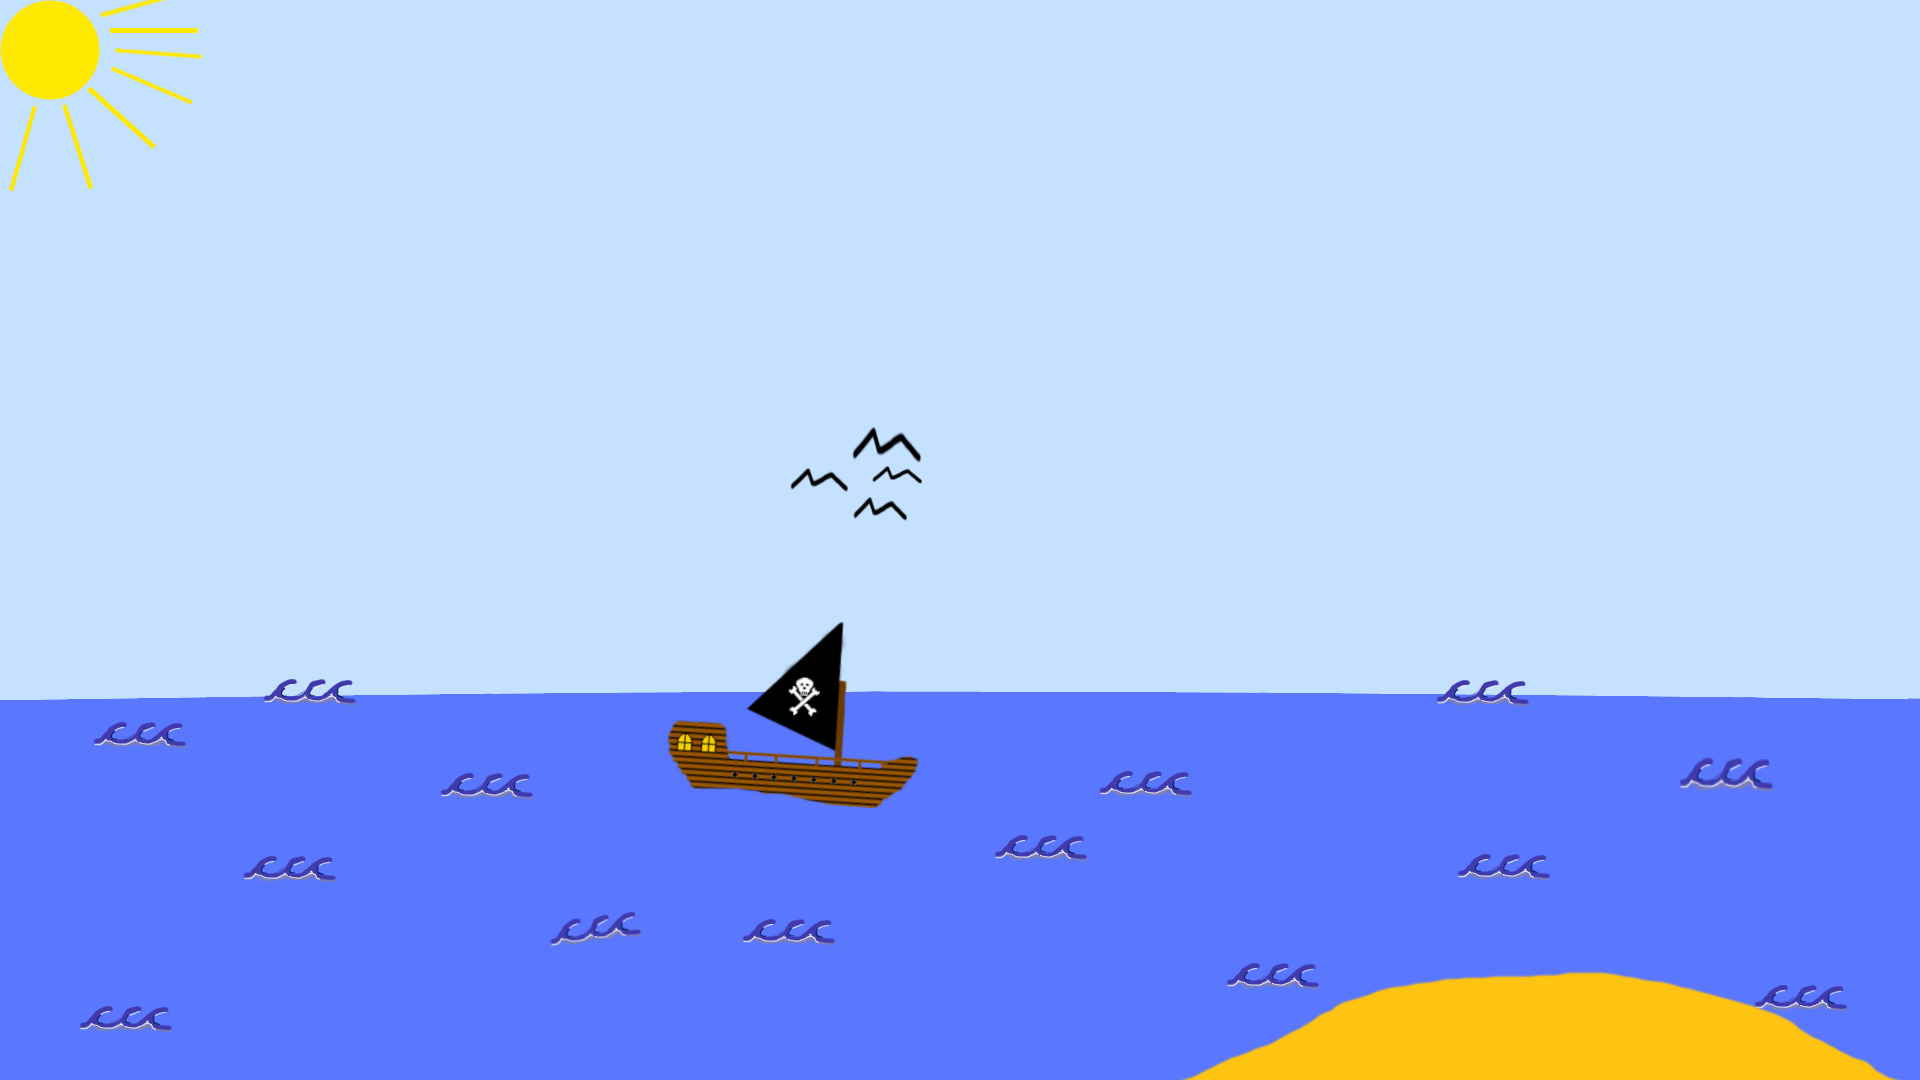
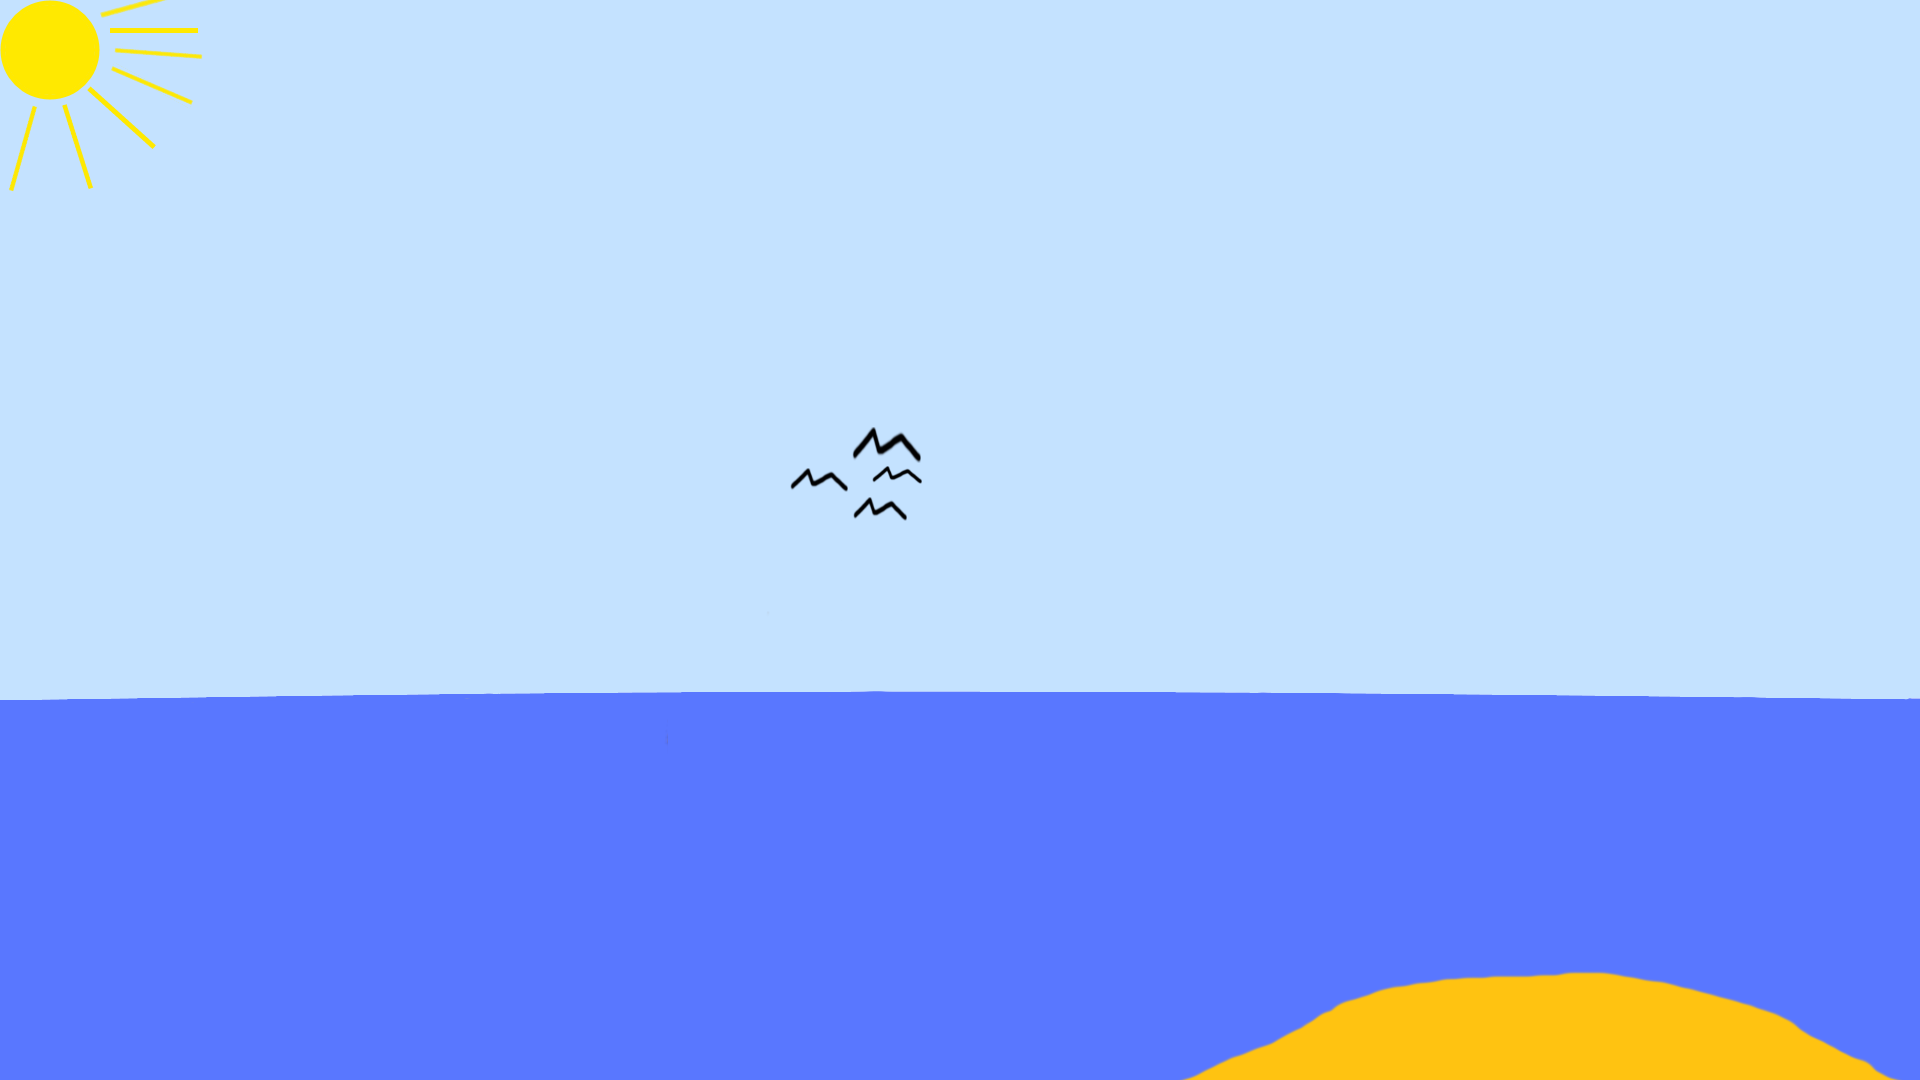
NK: Einbau Wellen in den Game Bildschirm, Änderung einiger Bilder

diff --git a/Sidescroller/javascript/GameDrawMovingObjects.js b/Sidescroller/javascript/GameDrawMovingObjects.js
@@ -1,26 +1,59 @@
 var shiftCloudOne = 1.5;
 var startXCloudOne = 600;
 var startYCloudOne = 35;
-var startXCloudOneCopy;
 
 var shiftCloudTwo = 1;
 var startXCloudTwo = 100;
 var startYCloudTwo = 100;
-var startXCloudTwoCopy;
 
 var shiftCloudThree = 2;
 var startXCloudThree = 900;
 var startYCloudThree = 50;
-var startXCloudThreeCopy;
 
 var shiftCloudFour = 3;
 var startXCloudFour = 400;
 var startYCloudFour = 100;
-var startXCloudFourCopy;
+
+
+var xWaveOne = 100;
+var xWaveTwo = 300;
+var xWaveThree = 750;
+var xWaveFour = 600;
+var xWaveFive = 1200;
+var xWaveSix = 1050;
+var xWaveSeven = 1350;
+var xWaveEight = 150;
+//var xWaveNine = 50;
+//var xWaveTen = 500;
+//var xWaveEleven = 650;
+//var xWaveTwelve = 900;
+//var xWaveThirdteen = 400;
+
+function drawMovingObjects() {
+    drawClouds();
+    drawWaves();
+}
 
 function drawClouds() {
-    startXCloudOne = paintMovingObject(startXCloudOne, startYCloudOne, wolkenformatZwei, startXCloudOneCopy, shiftCloudOne);
-    startXCloudTwo = paintMovingObject(startXCloudTwo, startYCloudTwo, wolkenformatZwei, startXCloudTwoCopy, shiftCloudTwo);
-    startXCloudThree = paintMovingObject(startXCloudThree, startYCloudThree, wolkenformatDrei, startXCloudThreeCopy, shiftCloudThree);
-    startXCloudFour = paintMovingObject(startXCloudFour, startYCloudFour, wolkenformatEins, startXCloudFourCopy, shiftCloudFour);
+    startXCloudOne = paintMovingObject(startXCloudOne, startYCloudOne, wolkenformatZwei,  shiftCloudOne);
+    startXCloudTwo = paintMovingObject(startXCloudTwo, startYCloudTwo, wolkenformatZwei,  shiftCloudTwo);
+    startXCloudThree = paintMovingObject(startXCloudThree, startYCloudThree, wolkenformatDrei,  shiftCloudThree);
+    startXCloudFour = paintMovingObject(startXCloudFour, startYCloudFour, wolkenformatEins,  shiftCloudFour);
+}
+
+function drawWaves() {
+    xWaveOne = paintMovingObject(xWaveOne, 675, welle, 1.7);
+    xWaveTwo = paintMovingObject(xWaveTwo, 690, welle, 1.8);
+    xWaveThree = paintMovingObject(xWaveThree, 700, welle, 2);
+    ctx.drawImage(schiff, 500, 550);
+    xWaveFour = paintMovingObject(xWaveFour, 710, welle, 1.9);
+    xWaveFive = paintMovingObject(xWaveFive, 750, welle, 2.2);
+    xWaveSix = paintMovingObject(xWaveSix, 777, welle, 2.1);
+    xWaveSeven = paintMovingObject(xWaveSeven, 800, welle, 2.3);
+    xWaveEight = paintMovingObject(xWaveEight, 820, welle, 2);
+   //xWaveNine = paintMovingObject(xWaveNine, 690, welle,  1.8);
+   // xWaveTen = paintMovingObject(xWaveTen, 730, welle,  2);
+   // xWaveEleven = paintMovingObject(xWaveEleven, 777, welle,  2.1);
+   // xWaveTwelve = paintMovingObject(xWaveTwelve, 820, welle,  2);
+   // xWaveThirdteen = paintMovingObject(xWaveThirdteen, 710, welle,  2.2);
 }

diff --git a/Sidescroller/javascript/MenueDrawMovingObjects.js b/Sidescroller/javascript/MenueDrawMovingObjects.js
@@ -1,0 +1,46 @@
+var shiftCloudOne = 2;
+var startXCloudOne = 400;
+var startYCloudOne = 35;
+
+var shiftCloudTwo = 4;
+var startXCloudTwo = 100;
+var startYCloudTwo = 100;
+
+var shiftCloudThree = 3;
+var startXCloudThree = 900;
+var startYCloudThree = 50;
+
+var shiftCloudFour = 4;
+var startXCloudFour = 600;
+var startYCloudFour = 100;
+
+var xWaveOne = 100;
+var xWaveTwo = 300;
+var xWaveThree = 800;
+var xWaveFour = 700;
+var xWaveFive = 1200;
+var xWaveSix = 950;
+var xWaveSeven = 1350;
+
+function drawMovingObjects() {
+    drawClouds();
+   // drawWaves();
+}
+
+function drawClouds() {
+    startXCloudOne = paintMovingObject(startXCloudOne, startYCloudOne, wolkenformatZwei, shiftCloudOne);
+    startXCloudTwo = paintMovingObject(startXCloudTwo, startYCloudTwo, wolkenformatEins, shiftCloudTwo);
+    startXCloudThree = paintMovingObject(startXCloudThree, startYCloudThree, wolkenformatDrei, shiftCloudThree);
+    startXCloudFour = paintMovingObject(startXCloudFour, startYCloudFour, wolkenformatEins, shiftCloudFour);
+
+}
+
+function drawWaves() {
+    xWaveOne = paintMovingObject(xWaveOne, 820, welle, 2);
+    xWaveTwo = paintMovingObject(xWaveTwo, 750, welle, 2.2);
+    xWaveThree = paintMovingObject(xWaveThree, 800, welle, 2.3);
+    xWaveFour = paintMovingObject(xWaveFour, 700, welle, 1.9);
+    xWaveFive = paintMovingObject(xWaveFive, 675, welle, 1.7);
+    xWaveSix = paintMovingObject(xWaveSix, 690, welle, 1.8);
+    xWaveSeven = paintMovingObject(xWaveSeven, 777, welle, 2.1);
+}

diff --git a/Sidescroller/javascript/Main_Menue.js b/Sidescroller/javascript/Main_Menue.js
@@ -1,23 +1,4 @@
-var shiftCloudOne = 2;
-var startXCloudOne = 400;
-var startYCloudOne = 35;
-var startXCloudOneCopy;
-
-var shiftCloudTwo = 4;
-var startXCloudTwo = 100;
-var startYCloudTwo = 100;
-var startXCloudTwoCopy;
-
-var shiftCloudThree = 3;
-var startXCloudThree = 900;
-var startYCloudThree = 50;
-var startXCloudThreeCopy;
-
-var shiftCloudFour = 4;
-var startXCloudFour = 600;
-var startYCloudFour = 100;
-var startXCloudFourCopy;
-
+
 
 function init() {
     setConfigs();
@@ -37,22 +18,8 @@ function draw() {
     ctx.clearRect(0, 0, 1000, 200);
     console.log("draw");
     ctx.drawImage(mainMenue, 0, 0);
-    drawClouds();
-
-    
-   
+    drawMovingObjects();   
 }
-
-function drawClouds() {
-    startXCloudOne = paintMovingObject(startXCloudOne, startYCloudOne, wolkenformatZwei, startXCloudOneCopy, shiftCloudOne);
-    startXCloudTwo = paintMovingObject(startXCloudTwo, startYCloudTwo, wolkenformatEins, startXCloudTwoCopy, shiftCloudTwo);
-    startXCloudThree = paintMovingObject(startXCloudThree, startYCloudThree, wolkenformatDrei, startXCloudThreeCopy, shiftCloudThree);
-    startXCloudFour = paintMovingObject(startXCloudFour, startYCloudFour, wolkenformatEins, startXCloudFourCopy, shiftCloudFour);
-
-}
-
-
-
 
 
 function loop() {

diff --git a/Sidescroller/javascript/Imagefiller.js b/Sidescroller/javascript/Imagefiller.js
@@ -24,6 +24,8 @@ function fillImages() {
     wolkenformatEins = new Image();
     wolkenformatZwei = new Image();
     wolkenformatDrei = new Image();
+    welle = new Image();
+    schiff = new Image();
 
     //alle blockelemente sind png mit 20x20px
 	// und sollen elemente im raster 50x50px werden
@@ -32,6 +34,7 @@ function fillImages() {
     lava = new Image();
 	earthBlock = new Image();
     quadrat = new Image();
+    
 
     defeatScreen = new Image();
     reloadImage = new Image();
@@ -45,6 +48,8 @@ function fillImages() {
     wolkenformatEins.src = '../images/wolkenformat_Eins.png';
     wolkenformatZwei.src = '../images/wolkenformat_Zwei.png';
     wolkenformatDrei.src = '../images/wolkenformat_Drei.png';
+    welle.src = '../images/welle.png';
+    schiff.src = '../images/game_schiff.png';
 
     earthBlock.src = '../images/erdblock.png';
     grassBlock.src = '../images/block.png';

diff --git a/Sidescroller/javascript/MoveObjects.js b/Sidescroller/javascript/MoveObjects.js
@@ -3,7 +3,7 @@
 // Damit dies wirklich funnktioniert, muss StartX beim Aufruf durch eine Variable erfolgen.
 // Dieser Variablen muss auch jedes mal das Ergebnis dieser Funktion zugewiesen werden. Siehe Bsp. unten.
 //  startXCloudTwo = paintMovingObject(startXCloudTwo, startYCloudTwo, wolkenformatZwei, startXCloudTwoCopy, shiftCloudTwo);
-function paintMovingObject(startX, startY, objectImage, startXCopy, speed) {
+function paintMovingObject(startX, startY, objectImage, speed) {
     canvasWidth = countBlocksX * blockSizeX;
     ctx.drawImage(objectImage, startX, startY);
 

diff --git a/Sidescroller/Index.html b/Sidescroller/Index.html
@@ -8,6 +8,7 @@
     <script type="text/javascript" src="../javascript/Imagefiller.js"></script>
     <script type="text/javascript" src="../javascript/Main_Menue.js"></script>
     <script type="text/javascript" src="../javascript/MoveObjects.js"></script>
+    <script type="text/javascript" src="../javascript/MenueDrawMovingObjects.js"></script>
     <script>
         console.log("start Init func");
         window.onload = init;

diff --git a/Sidescroller/javascript/GameCanvas_Main.js b/Sidescroller/javascript/GameCanvas_Main.js
@@ -77,7 +77,8 @@ function update() {
 function draw() {
 	ctx.clearRect(0, 0, 1000, 200);
     ctx.drawImage(background, backgroundPosition, 0);
-    drawClouds();
+    drawMovingObjects();
+    
 	for (var i = 0; i < physicalObjectArray.length; i++) {
 		ctx.drawImage(physicalObjectArray[i].img, physicalObjectArray[i].left, physicalObjectArray[i].top);
 	}
